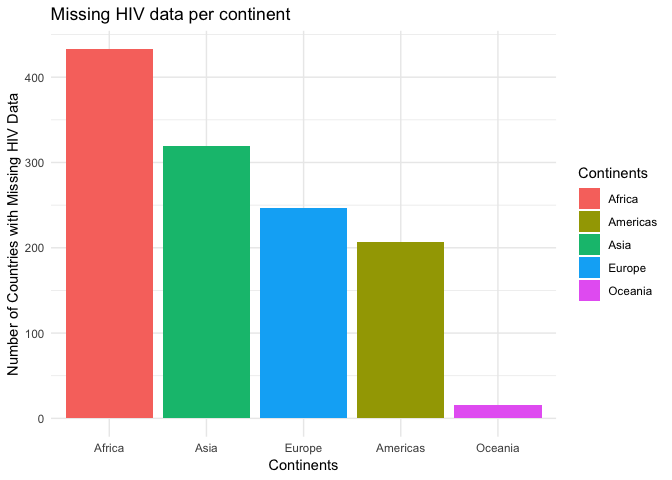
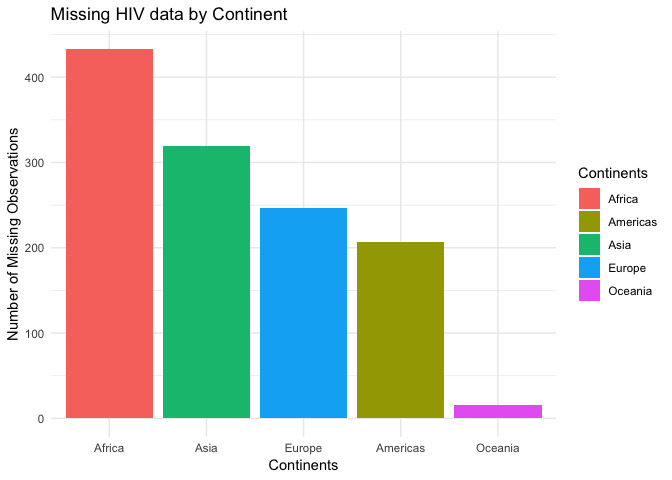
Neatened code and added explanations

Changed region(s): [[0.0, 0.1875, 0.0312, 0.7812], [0.2812, 0.0, 0.4375, 0.0625]]

diff --git a/scotus.md b/scotus.md
@@ -35,8 +35,9 @@ library(lubridate)
     ##     date
 
 ``` r
+library(knitr)
 theme_set(theme_minimal())
-# load data
+# load data, troubleshooting variable type issues 
 scdbv_mod <- read_csv("data/SCDB_2018_01_justiceCentered_Citation.csv", col_types = cols(docket = col_character()))
 scdbv_leg <- read_csv("data/SCDB_Legacy_04_justiceCentered_Citation.csv", col_types = cols(docket = col_character(), adminAction = col_number(), adminActionState = col_number()))
 scdbv_mod
@@ -116,7 +117,11 @@ Combine the datasets
 --------------------
 
 ``` r
-scotusfull <- bind_rows(scdbv_mod,scdbv_leg) %>% distinct(caseIssuesId, term, justice, justiceName, decisionDirection, majVotes, minVotes, majority, chief, dateDecision, decisionType)
+#bind rows
+scotusfull <- bind_rows(scdbv_mod,scdbv_leg) %>% 
+#select only relevant variables
+  distinct(caseIssuesId, term, justice, justiceName, decisionDirection, 
+           majVotes, minVotes, majority, chief, dateDecision, decisionType)
 ```
 
 What percentage of cases in each term are decided by a one-vote margin (i.e. 5-4, 4-3, etc.)
@@ -147,6 +152,8 @@ ggplot(data = scotusfull.1, mapping = aes(x = term, y=percentOneVote)) +
 
 ![](scotus_files/figure-markdown_github/unnamed-chunk-3-1.png)
 
+On average, the number of one-vote margin decisions has slowly increased since 1900. This potentially suggests that the Court has become more polarized.
+
 In each term he served on the Court, in what percentage of cases was Justice Antonin Scalia in the majority?
 ------------------------------------------------------------------------------------------------------------
 
@@ -159,7 +166,7 @@ Scaliaframe <- scotusfull %>%
   group_by(term) %>%
   mutate(totalCases = sum(n)) %>%
   mutate (percentMaj = n/totalCases) %>%
-  filter(majority == 2)
+  filter(majority == 2) 
 
 #plot Scalia majority decisions
 ggplot(data = Scaliaframe, mapping = aes(x = term, y=percentMaj)) +
@@ -172,6 +179,8 @@ ggplot(data = Scaliaframe, mapping = aes(x = term, y=percentMaj)) +
 ```
 
 ![](scotus_files/figure-markdown_github/unnamed-chunk-4-1.png)
+
+Throughout his terms in the Court, has been relatively consistent in agreeing with the majority decision approximately 80% of the time.
 
 In each term, what percentage of cases were decided in the conservative direction?
 ----------------------------------------------------------------------------------
@@ -201,14 +210,19 @@ ggplot(data = conframe, mapping = aes(x = term, y=percentConservative)) +
 
 ![](scotus_files/figure-markdown_github/unnamed-chunk-5-1.png)
 
+The percentage of cases decided in a conservative direction has steadily increased since 1850.
+
 The Chief Justice is frequently seen as capable of influencing the ideological direction of the Court. Create a graph similar to the one above that also incorporates information on who was the Chief Justice during the term.
 -------------------------------------------------------------------------------------------------------------------------------------------------------------------------------------------------------------------------------
 
 ``` r
-#create chief frame
+#create chief dataframe
 chiefframe <- scotusfull %>% 
   distinct(term, caseIssuesId, decisionDirection, chief)  %>% 
-  mutate(chief = parse_factor(chief, levels = c("Jay", "Rutledge","Ellsworth", "Marshall","Taney", "Chase", "Waite","Fuller", "White", "Taft", "Hughes", "Stone", "Vinson", "Warren", "Burger", "Rehnquist", "Roberts"))) %>%
+  mutate(chief = parse_factor(chief, 
+      levels = c("Jay", "Rutledge","Ellsworth", "Marshall","Taney", "Chase",
+      "Waite","Fuller", "White", "Taft", "Hughes", "Stone", 
+      "Vinson", "Warren", "Burger", "Rehnquist", "Roberts"))) %>%
   mutate(conservative = decisionDirection == 1) %>%
   count(chief, term, conservative) %>%
   group_by(term) %>%
@@ -216,31 +230,39 @@ chiefframe <- scotusfull %>%
   mutate (percentConservative = n/totalCases) %>%
   filter(conservative) 
 
+#plot chief data
 ggplot(data = chiefframe, mapping = aes(x = term, y = percentConservative, color = chief)) +
   geom_point() +
   geom_line() +
-  labs(title = "Percentage of Cases Decided in the Conservative Direction per Term and Chief Justice", 
+  labs(title = "Percentage of Cases Decided Conservatively per Term by Chief Justice", 
   x = "Term", 
   y = "Percentage of Cases",
   color = "Chief Justice")
 ```
 
-![](scotus_files/figure-markdown_github/unnamed-chunk-6-1.png) \#\# In each term, how many of the term's published decisions (decided after oral arguments) were announced in a given month?
+![](scotus_files/figure-markdown_github/unnamed-chunk-6-1.png)
+
+In each term, how many of the term's published decisions (decided after oral arguments) were announced in a given month?
+------------------------------------------------------------------------------------------------------------------------
 
 ``` r
+#create month data frame
 monthframe <- scotusfull %>% 
   mutate(Dates = as.Date(dateDecision, "%m/%d/%Y")) %>% 
   filter(decisionType == 1 | 6 | 7) %>% 
   distinct(term, caseIssuesId, Dates) %>%
   mutate(month = month(Dates)) %>%
-  mutate(month = factor(month, levels = c("1", "2", "3", "4", "5", "6", "7", "8", "9", "10", "11", "12"), labels = c("Jan", "Feb", "Mar", "Apr", "May", "Jun", "Jul", "Aug", "Sep", "Oct", "Nov", "Dec"))) %>%
-  mutate(month = fct_shift(month, n = 9))  %>%
+  mutate(month = factor(month, 
+  levels = c("1", "2", "3", "4", "5", "6", "7", "8", "9", "10", "11", "12"), 
+  labels = c("Jan", "Feb", "Mar", "Apr", "May", "Jun", 
+             "Jul", "Aug", "Sep", "Oct", "Nov", "Dec"))) %>%
+  mutate(month = fct_shift(month, n = 10))  %>%
   group_by(term) %>%
   count(month, term)
   
+#plot month data
 ggplot(data=monthframe, mapping = aes(x = month, y=n, fill = month)) + 
   geom_boxplot() +
-  coord_flip() + 
   labs(title = "Number of Published Decisions per Term-Month", 
    x = "Months", 
    y = "Number of Decisions",
@@ -248,6 +270,8 @@ ggplot(data=monthframe, mapping = aes(x = month, y=n, fill = month)) +
 ```
 
 ![](scotus_files/figure-markdown_github/unnamed-chunk-7-1.png)
+
+The greatest number of decisions published decisions are announced in June, with the least being announced in July, August, September, and October. This is consistent with the fact that the court generally breaks in late June or early July, and recovenes at the end of October.
 
 Session info
 ------------
@@ -296,7 +320,7 @@ devtools::session_info()
     ##  htmltools     0.3.6   2017-04-28 [1] CRAN (R 3.5.0)
     ##  httr          1.3.1   2017-08-20 [1] CRAN (R 3.5.0)
     ##  jsonlite      1.5     2017-06-01 [1] CRAN (R 3.5.0)
-    ##  knitr         1.20    2018-02-20 [1] CRAN (R 3.5.0)
+    ##  knitr       * 1.20    2018-02-20 [1] CRAN (R 3.5.0)
     ##  labeling      0.3     2014-08-23 [1] CRAN (R 3.5.0)
     ##  lattice       0.20-35 2017-03-25 [1] CRAN (R 3.5.0)
     ##  lazyeval      0.2.1   2017-10-29 [1] CRAN (R 3.5.0)

diff --git a/gapminder.md b/gapminder.md
@@ -91,7 +91,7 @@ ggplot(data = hivprevlife, mapping = aes(x=hivRate, y=lifeExp)) +
 
 ![](gapminder_files/figure-markdown_github/unnamed-chunk-3-1.png)
 
-For this question, I chose to use an inner join, because I wanted to see only observations where there was data on both HIV prevalence and life expectancy.
+For this question, I chose to use an inner join, because I wanted to see only observations where there was data on both HIV prevalence and life expectancy. For countries with an logarithmic HIV rate above 0.1, the relationship between HIV prevalence and life expectancy is negative, with higher rates of HIV prevalence associated with lower life expectancies.
 
 Which continents have the most countries with missing HIV data?
 ===============================================================
@@ -113,15 +113,15 @@ missinghiv %>%
   filter(!is.na(continent)) %>%
   ggplot(mapping = aes(x = reorder(continent, -n), y=n, fill=continent)) +
     geom_col() +
-    labs(title = "Missing HIV data per continent",
+    labs(title = "Missing HIV data by Continent",
     x= "Continents",
-    y = "Number of Countries with Missing HIV Data",
+    y = "Number of Missing Observations",
     fill = "Continents")
 ```
 
 ![](gapminder_files/figure-markdown_github/unnamed-chunk-4-1.png)
 
-For this question, I chose to use an anti-join, because I wanted to see observations that had missing HIV data.
+For this question, I chose to use an anti-join, because I wanted to see observations that had missing HIV data. Africa, followed by Asia and then Europe, have the greatest number of missing HIV data observations.
 
 Session info
 ------------

diff --git a/dadmom.md b/dadmom.md
@@ -6,9 +6,6 @@ Get the data
 ============
 
 ``` r
-# don't modify this chunk unless you still need to install rcfss
-# if so, run "devtools::install_github("uc-cfss/rcfss")" in the console first
-
 library(tidyverse)
 ```
 
